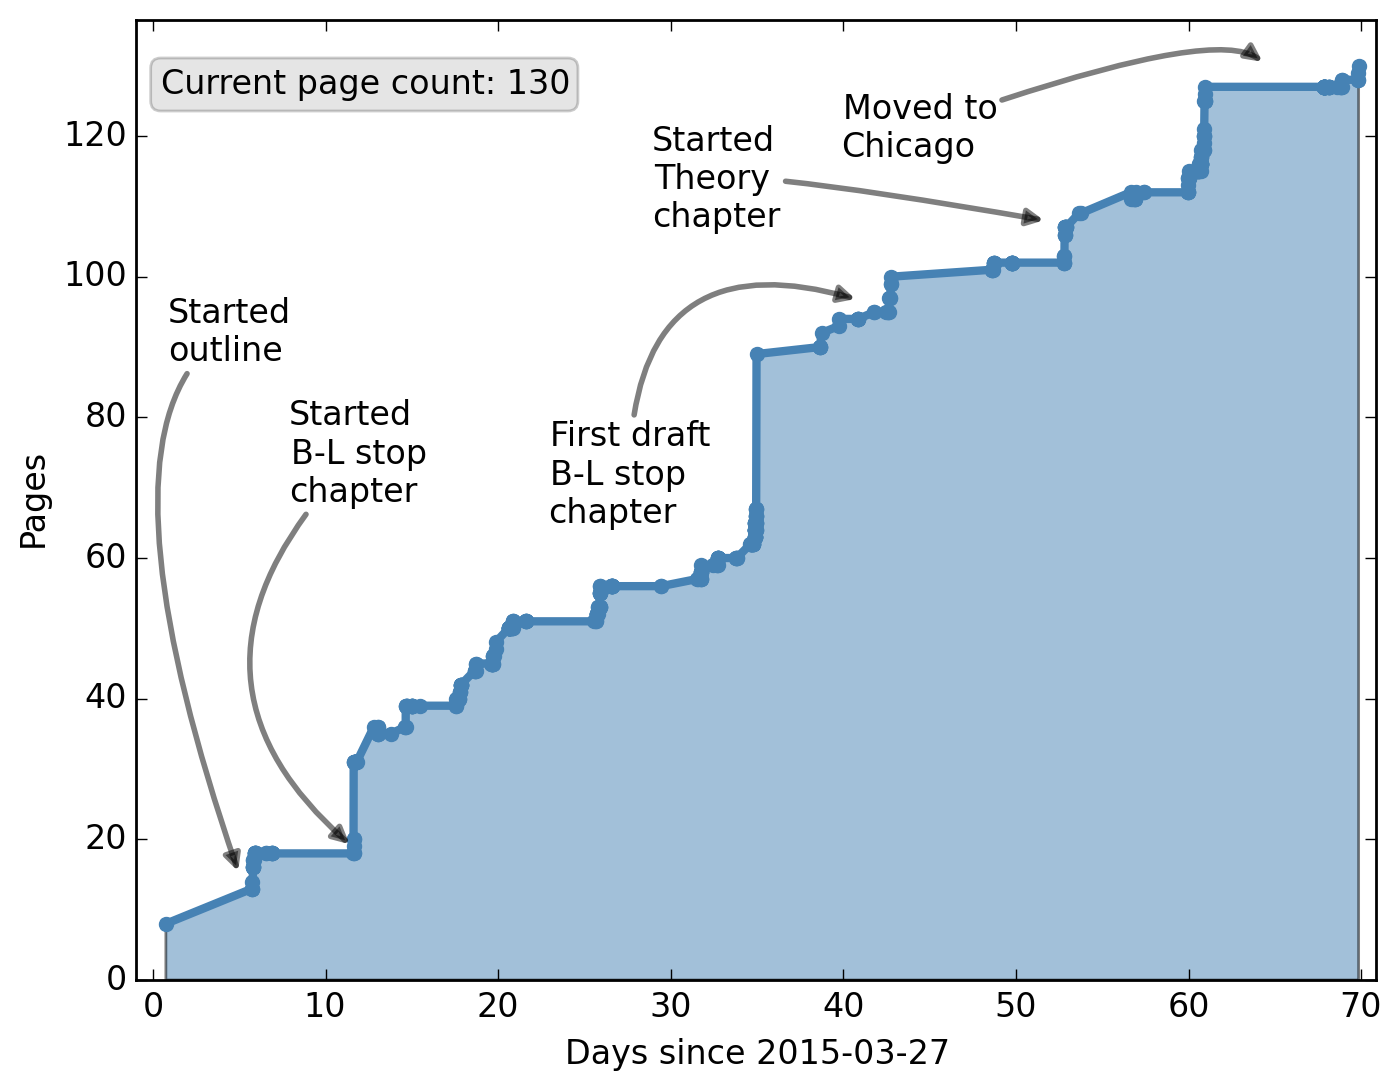
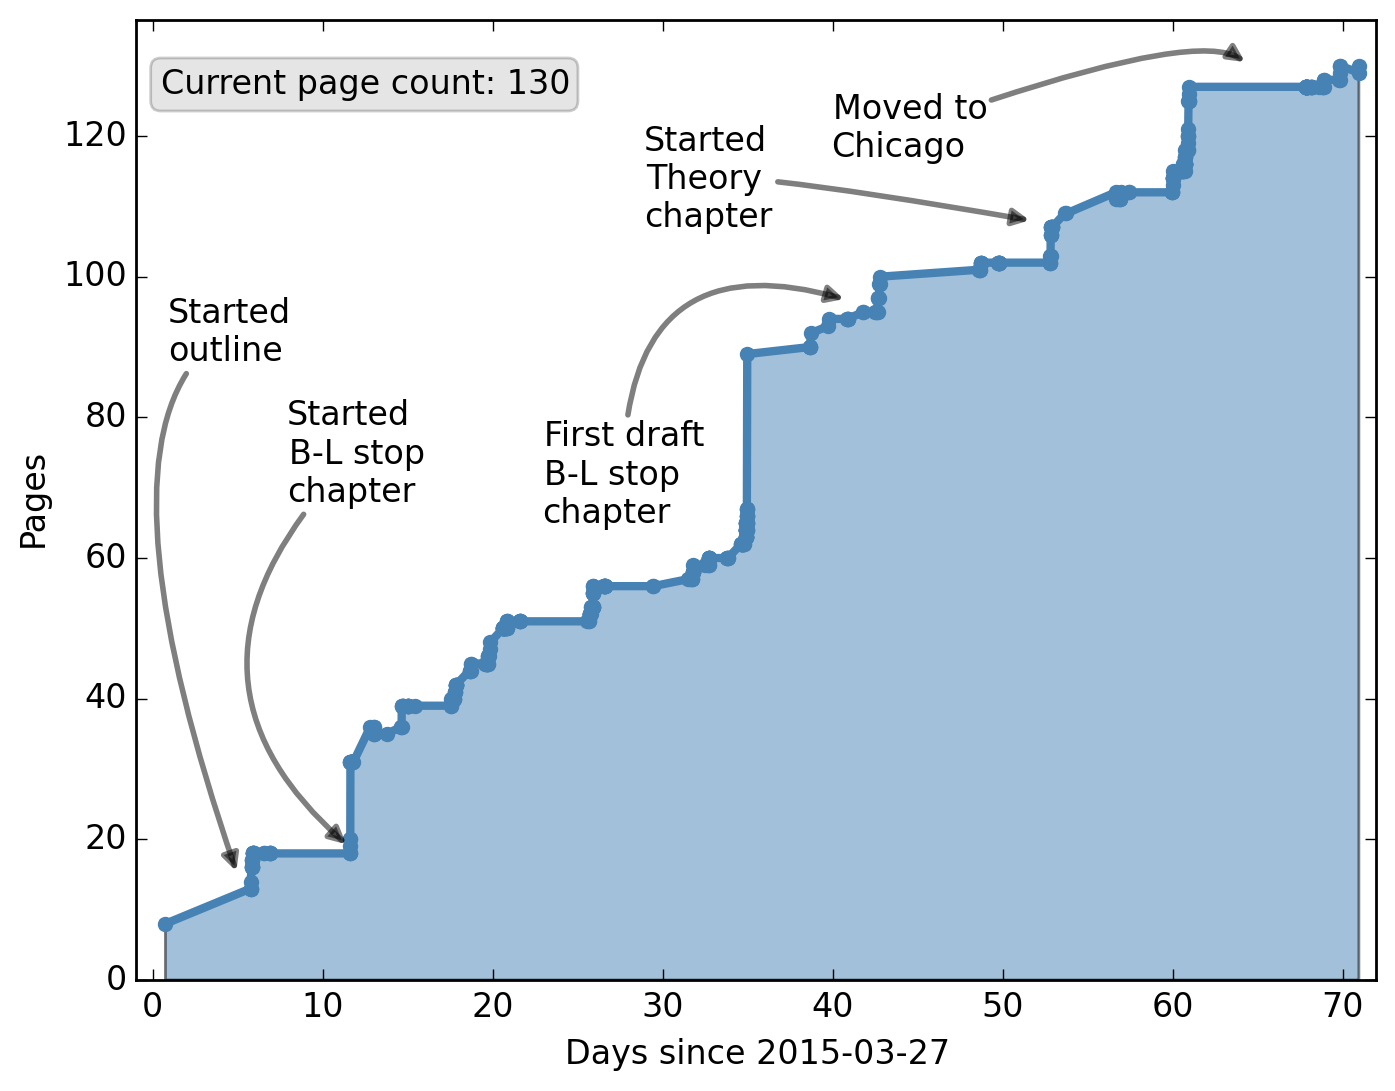
up

diff --git a/tex/theory.tex b/tex/theory.tex
@@ -80,17 +80,10 @@ quarks and neutrinos having the third component of weak isospin ($T_3$) equal
 to $+\nicefrac{1}{2}$, and the down-type quarks and charged leptons having
 $T_3 = -\nicefrac{1}{2}$.
 The quarks and charged leptons each have a corresponding right-handed particle.
-These right-handed fermions are not part of a 
-
-while the neutrinos
-have no electric charge, and interact only weakly.
-Since the leptons have no color charge, they do not interact via the strong
-force at all.
-The 
-
-While the photon is a massless particle, the $W^{\pm}$ and $Z$ bosons are short
-ranged, implying they are massive.
-
+These right-handed fermions are not part of an isospin doublet, and do not
+interact via the weak force.
+It should also be noted that, in the SM, neutrinos do not have a right-handed
+counterpart, as they would not interact via any known forces.
 
 \begin{table}
   \caption{Summary of the matter particles described by the SM, along with the
@@ -201,6 +194,31 @@ ranged, implying they are massive.
   \end{center}
   
 \end{table}
+
+%% - - - - - - - - - - - - - - - - - - - - - - - - - - - - - - - - - - - - - - -
+\FloatBarrier
+\subsection{Higgs mechanism}
+
+While the photon is a massless particle, the $W^{\pm}$ and $Z$ bosons are
+observed to be short ranged, implying they are massive.
+The addition of these mass terms breaks gauge invariant in the SM Lagrangian,
+and is, therefore, forbidden.
+Similarly, the fermions have masses, which are forbidden by the SM.
+This would allow a mixing between the left- and right-handed fermions,
+which would break gauge invariance.
+
+A method to add mass terms to the SM Lagrangian without breaking the necessary
+gauge invariance was developed during the 1960's by several groups of theorists,
+including Robert Brout and Francois Englert~\cite{PhysRevLett.13.321},
+Peter Higgs~\cite{Higgs1964132,PhysRevLett.13.508},
+and Gerald Guralnik, Carl R. Hagen, and Tom Kibble~\cite{PhysRevLett.13.585}
+working in parallel, and is commonly called the Brout-Englert-Higgs (BEH)
+mechanism.
+The BEH mechanism adds an additional complex scaler field, known as the Higgs
+field, to the Lagrangian, for which the ground state of the field is not at its
+zero-point.
+The Higgs field ``spontaneously'' breaks the gauge symmetry while preserving
+the gauge invariance of the Lagrangian.
 
 %% -----------------------------------------------------------------------------
 \FloatBarrier

diff --git a/PageNumbers.md b/PageNumbers.md
@@ -440,3 +440,6 @@ Thu Jun 4 14:08:22 CDT 2015 , 128
 Thu Jun 4 14:55:01 CDT 2015 , 128
 Thu Jun 4 14:58:12 CDT 2015 , 129
 Thu Jun 4 15:33:27 CDT 2015 , 130
+Thu Jun 4 15:45:05 CDT 2015 , 130
+Fri Jun 5 17:24:10 CDT 2015 , 129
+Fri Jun 5 17:47:07 CDT 2015 , 130
